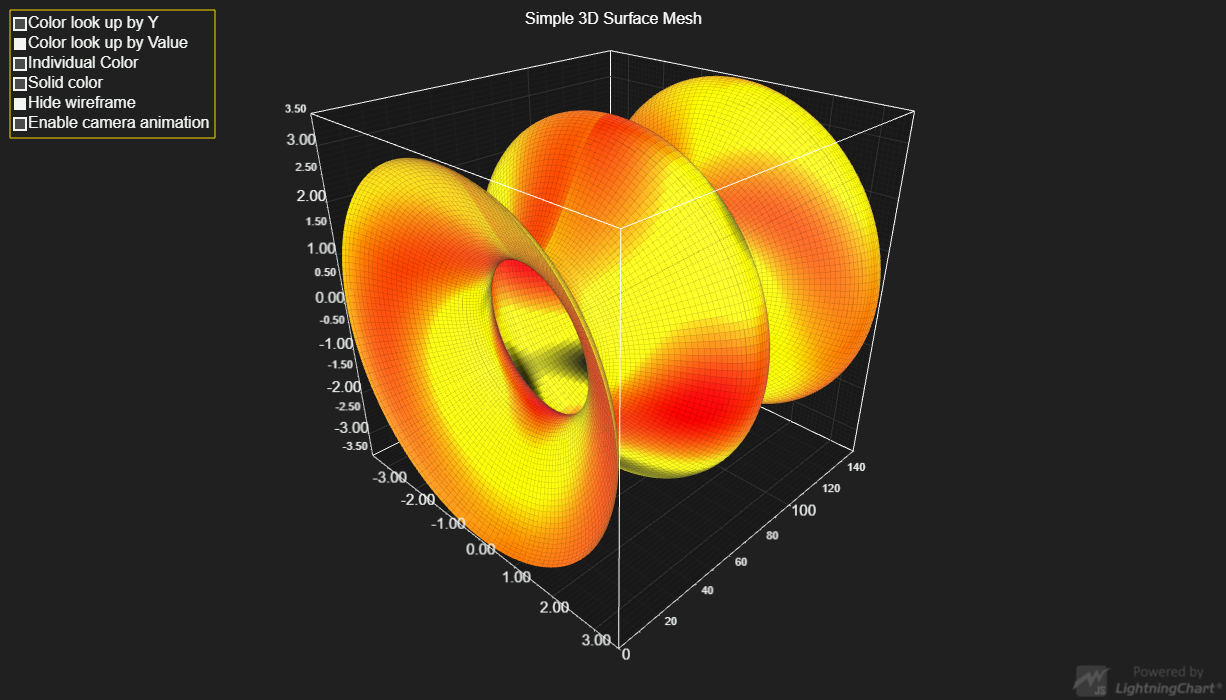
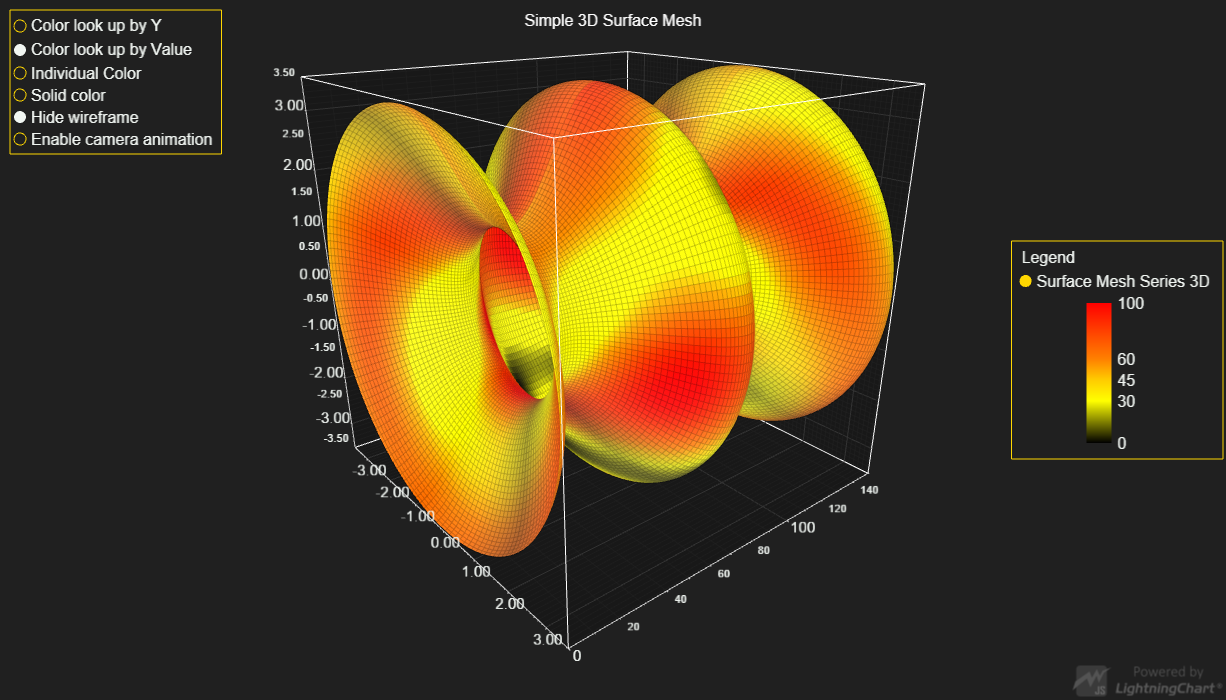
LCJS 3.0.0

diff --git a/src/index.js b/src/index.js
@@ -217,3 +217,9 @@ const handleCameraAnimationToggled = ( state ) => {
 const cameraAnimationEnabledCheckbox = group.addElement( UIElementBuilders.CheckBox )
 cameraAnimationEnabledCheckbox.onSwitch((_, state) => handleCameraAnimationToggled( state ))
 handleCameraAnimationToggled( true )
+chart3D.onBackgroundMouseDrag(() => {
+    handleCameraAnimationToggled( false )
+})
+
+// Add LegendBox to chart.
+const legend = chart3D.addLegendBox().add(chart3D)

diff --git a/README.md b/README.md
@@ -143,7 +143,7 @@ Direct developer email support can be purchased through a [Support Plan][4] or b
 © Arction Ltd 2009-2020. All rights reserved.
 
 
-[3D chart]: https://www.arction.com/lightningchart-js-api-documentation/v2.2.0/classes/chart3d.html
-[3D surface mesh series]: https://www.arction.com/lightningchart-js-api-documentation/v2.2.0/classes/surfacemeshseries3d.html
-[Grid range options]: https://www.arction.com/lightningchart-js-api-documentation/v2.2.0/interfaces/gridrangeoptions.html
+[3D chart]: https://www.arction.com/lightningchart-js-api-documentation/v3.0.0/classes/chart3d.html
+[3D surface mesh series]: https://www.arction.com/lightningchart-js-api-documentation/v3.0.0/classes/surfacemeshseries3d.html
+[Grid range options]: https://www.arction.com/lightningchart-js-api-documentation/v3.0.0/interfaces/gridrangeoptions.html
 
